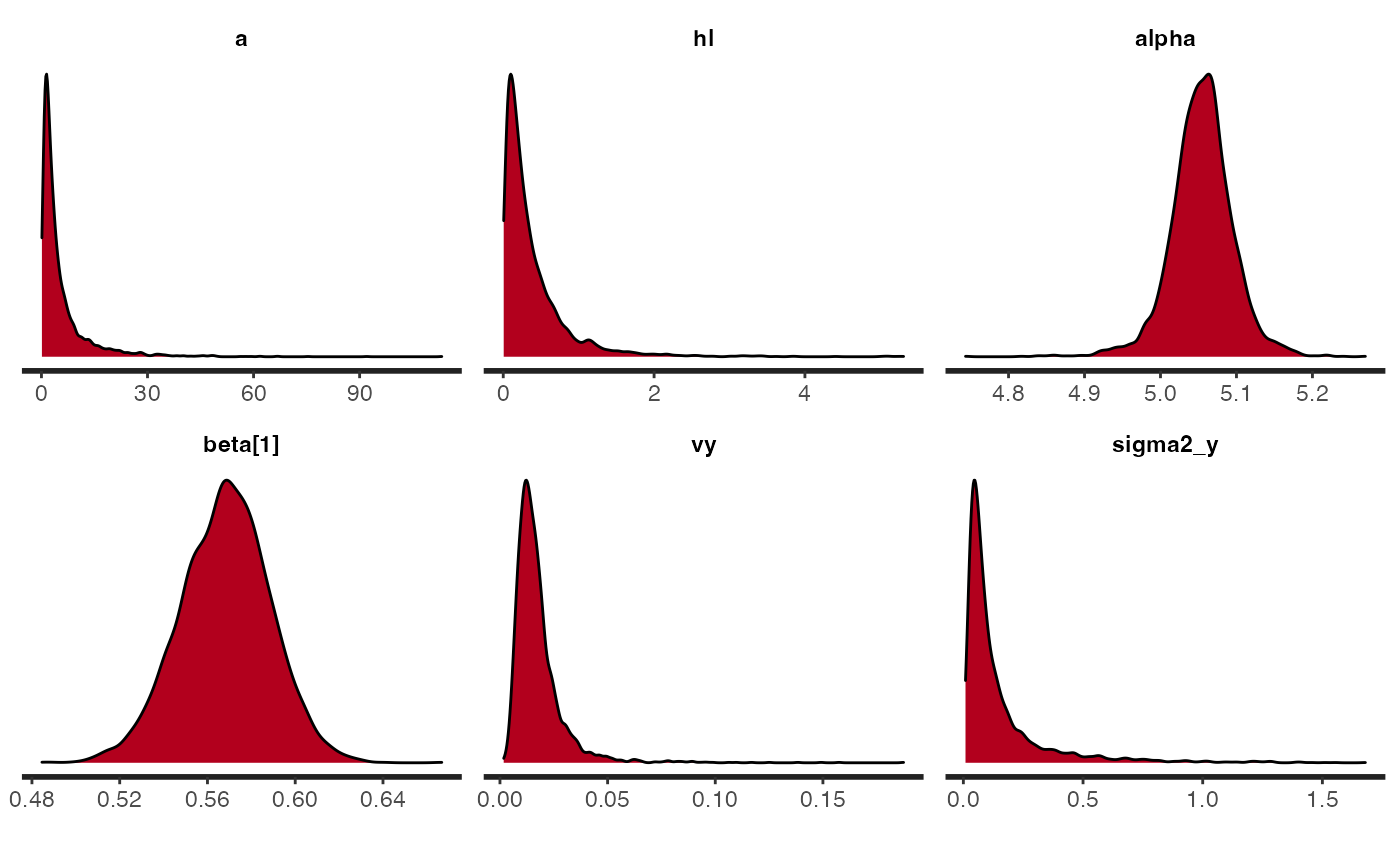
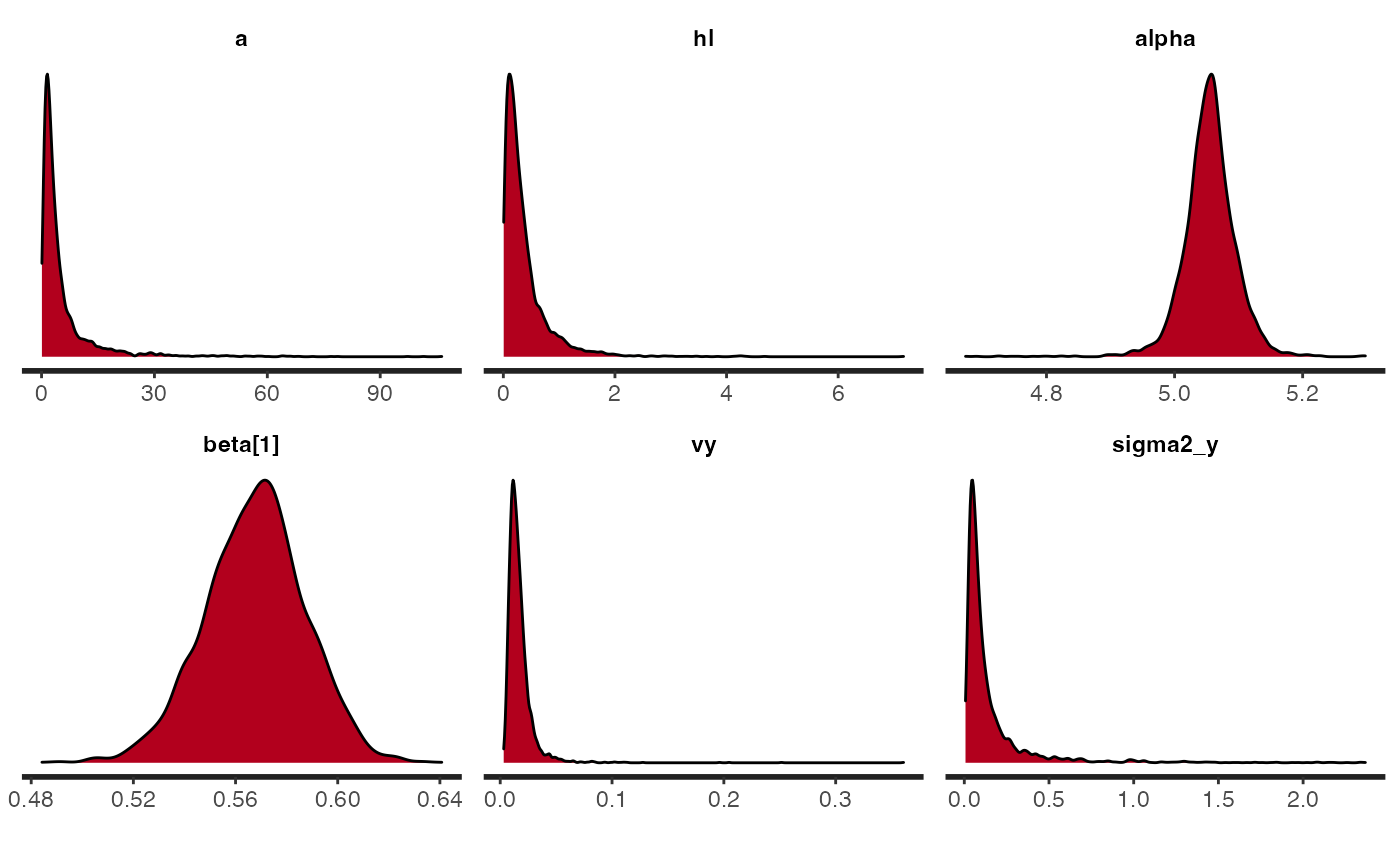
edit

diff --git a/docs/articles/OU-Models.html b/docs/articles/OU-Models.html
@@ -160,35 +160,7 @@
 <span class="va">ruminant.trdata</span><span class="op">&lt;-</span><span class="fu"><a href="https://rdrr.io/r/stats/filter.html" class="external-link">filter</a></span><span class="op">(</span><span class="va">ruminant.trdata</span>,<span class="op">!</span><span class="op">(</span><span class="fu"><a href="https://rdrr.io/r/base/NA.html" class="external-link">is.na</a></span><span class="op">(</span><span class="va">brain_mass_g_log_mean</span><span class="op">)</span><span class="op">)</span> <span class="op">&amp;</span> <span class="op">!</span><span class="op">(</span><span class="fu"><a href="https://rdrr.io/r/base/NA.html" class="external-link">is.na</a></span><span class="op">(</span><span class="va">body_mass_g_log_mean</span><span class="op">)</span><span class="op">)</span><span class="op">)</span>
 <span class="va">ruminant.trdata</span><span class="op">&lt;-</span><span class="fu"><a href="https://rdrr.io/r/stats/filter.html" class="external-link">filter</a></span><span class="op">(</span><span class="va">ruminant.trdata</span>,<span class="op">!</span><span class="op">(</span><span class="fu"><a href="https://rdrr.io/r/base/NA.html" class="external-link">is.na</a></span><span class="op">(</span><span class="va">brain_se_squared</span><span class="op">)</span><span class="op">)</span> <span class="op">&amp;</span> <span class="op">!</span><span class="op">(</span><span class="fu"><a href="https://rdrr.io/r/base/NA.html" class="external-link">is.na</a></span><span class="op">(</span><span class="va">body_se_squared</span><span class="op">)</span><span class="op">)</span><span class="op">)</span>
 
-<span class="va">ruminant.trdata</span> <span class="co">#Full dataset</span>
-<span class="co">#&gt; $phy </span>
-<span class="co">#&gt; </span>
-<span class="co">#&gt; Phylogenetic tree with 43 tips and 42 internal nodes.</span>
-<span class="co">#&gt; </span>
-<span class="co">#&gt; Tip labels:</span>
-<span class="co">#&gt;   Antilocapra_americana, Addax_nasomaculatus, Aepyceros_melampus, Alcelaphus_buselaphus_buselaphus, Antidorcas_marsupialis, Antilope_cervicapra, ...</span>
-<span class="co">#&gt; Node labels:</span>
-<span class="co">#&gt;   MF, MF, MF, MF, MF, MF, ...</span>
-<span class="co">#&gt; </span>
-<span class="co">#&gt; Rooted; includes branch lengths.</span>
-<span class="co">#&gt; </span>
-<span class="co">#&gt; $dat </span>
-<span class="co">#&gt; <span style="color: #949494;"># A tibble: 43 × 10</span></span>
-<span class="co">#&gt;    brain_mass_g_log_… brain_se_squared n_brain body_mass_g_log_… body_se_squared</span>
-<span class="co">#&gt;                 <span style="color: #949494; font-style: italic;">&lt;dbl&gt;</span>            <span style="color: #949494; font-style: italic;">&lt;dbl&gt;</span>   <span style="color: #949494; font-style: italic;">&lt;int&gt;</span>             <span style="color: #949494; font-style: italic;">&lt;dbl&gt;</span>           <span style="color: #949494; font-style: italic;">&lt;dbl&gt;</span></span>
-<span class="co">#&gt; <span style="color: #BCBCBC;"> 1</span>               4.80         0.010<span style="text-decoration: underline;">9</span>         1             11.0          0.042<span style="text-decoration: underline;">6</span> </span>
-<span class="co">#&gt; <span style="color: #BCBCBC;"> 2</span>               5.30         0.005<span style="text-decoration: underline;">47</span>        2             11.6          0.021<span style="text-decoration: underline;">3</span> </span>
-<span class="co">#&gt; <span style="color: #BCBCBC;"> 3</span>               5.15         0.000<span style="text-decoration: underline;">995</span>      11             10.9          0.003<span style="text-decoration: underline;">87</span></span>
-<span class="co">#&gt; <span style="color: #BCBCBC;"> 4</span>               5.69         0.002<span style="text-decoration: underline;">19</span>        5             11.9          0.008<span style="text-decoration: underline;">52</span></span>
-<span class="co">#&gt; <span style="color: #BCBCBC;"> 5</span>               4.91         0.000<span style="text-decoration: underline;">842</span>      13             10.5          0.003<span style="text-decoration: underline;">28</span></span>
-<span class="co">#&gt; <span style="color: #BCBCBC;"> 6</span>               4.77         0.010<span style="text-decoration: underline;">9</span>         1             10.4          0.042<span style="text-decoration: underline;">6</span> </span>
-<span class="co">#&gt; <span style="color: #BCBCBC;"> 7</span>               4.42         0.010<span style="text-decoration: underline;">9</span>         1              9.43         0.042<span style="text-decoration: underline;">6</span> </span>
-<span class="co">#&gt; <span style="color: #BCBCBC;"> 8</span>               4.42         0.003<span style="text-decoration: underline;">65</span>        3              9.58         0.021<span style="text-decoration: underline;">3</span> </span>
-<span class="co">#&gt; <span style="color: #BCBCBC;"> 9</span>               3.52         0.001<span style="text-decoration: underline;">37</span>        8              8.46         0.005<span style="text-decoration: underline;">33</span></span>
-<span class="co">#&gt; <span style="color: #BCBCBC;">10</span>               5.72         0.010<span style="text-decoration: underline;">9</span>         1             11.9          0.042<span style="text-decoration: underline;">6</span> </span>
-<span class="co">#&gt; <span style="color: #949494;"># … with 33 more rows, and 5 more variables: n_body &lt;int&gt;,</span></span>
-<span class="co">#&gt; <span style="color: #949494;">#   neocortex_area_mm2_log_mean &lt;dbl&gt;, neocortex_se_squared &lt;dbl&gt;,</span></span>
-<span class="co">#&gt; <span style="color: #949494;">#   n_neocortex &lt;int&gt;, diet &lt;fct&gt;</span></span>
+<span class="co">#ruminant.trdata #Full dataset</span>
 
 <span class="co">#Mean Scale</span>
 <span class="va">ruminant.trdata</span><span class="op">$</span><span class="va">dat</span><span class="op">$</span><span class="va">bodycentered</span><span class="op">&lt;-</span><span class="va">ruminant.trdata</span><span class="op">$</span><span class="va">dat</span><span class="op">$</span><span class="va">body_mass_g_log_mean</span><span class="op">-</span><span class="fu"><a href="https://rdrr.io/r/base/mean.html" class="external-link">mean</a></span><span class="op">(</span><span class="va">ruminant.trdata</span><span class="op">$</span><span class="va">dat</span><span class="op">$</span><span class="va">body_mass_g_log_mean</span><span class="op">)</span></code></pre></div>
@@ -281,13 +253,13 @@
 <div class="sourceCode" id="cb9"><pre class="downlit sourceCode r">
 <code class="sourceCode R"><span class="co">#abline(v=(c(log(2)/0.07142857,log(2)/1)), col="red", lwd=2, lty=2) #Lines for 1 Ma and length of tree (14 Ma) - </span>
 <span class="fu"><a href="https://rdrr.io/r/base/Extremes.html" class="external-link">min</a></span><span class="op">(</span><span class="va">samp</span><span class="op">)</span>
-<span class="co">#&gt; [1] 0.03700201</span>
+<span class="co">#&gt; [1] 0.02558487</span>
 <span class="fu"><a href="https://rdrr.io/r/base/Extremes.html" class="external-link">max</a></span><span class="op">(</span><span class="va">samp</span><span class="op">)</span>
-<span class="co">#&gt; [1] 358.436</span>
+<span class="co">#&gt; [1] 293.2979</span>
 <span class="fu"><a href="https://rdrr.io/r/base/Log.html" class="external-link">log</a></span><span class="op">(</span><span class="fl">2</span><span class="op">)</span><span class="op">/</span><span class="fu"><a href="https://rdrr.io/r/base/Extremes.html" class="external-link">min</a></span><span class="op">(</span><span class="va">samp</span><span class="op">)</span>
-<span class="co">#&gt; [1] 18.73269</span>
+<span class="co">#&gt; [1] 27.09208</span>
 <span class="fu"><a href="https://rdrr.io/r/base/Log.html" class="external-link">log</a></span><span class="op">(</span><span class="fl">2</span><span class="op">)</span><span class="op">/</span><span class="fu"><a href="https://rdrr.io/r/base/Extremes.html" class="external-link">max</a></span><span class="op">(</span><span class="va">samp</span><span class="op">)</span>
-<span class="co">#&gt; [1] 0.00193381</span>
+<span class="co">#&gt; [1] 0.002363288</span>
 
 <span class="va">quantiles</span> <span class="op">&lt;-</span> <span class="fu"><a href="https://rdrr.io/r/base/c.html" class="external-link">c</a></span><span class="op">(</span><span class="fl">0</span>, <span class="fl">0.01</span>, <span class="fl">0.025</span>,<span class="fl">0.10</span>, <span class="fl">0.25</span>, <span class="fl">0.5</span>, <span class="fl">0.75</span>,<span class="fl">0.90</span>,<span class="fl">0.95</span>, <span class="fl">0.975</span>, <span class="fl">0.99</span>, <span class="fl">1</span><span class="op">)</span>
 <span class="co">#hls &lt;- rlnorm(10000, meanlog=log(2)/par.alpha$meanlog, sdlog=log(2)/par.alpha$sdlog)</span>
@@ -295,7 +267,7 @@
 <span class="va">qs</span> <span class="op">&lt;-</span> <span class="fu"><a href="https://rdrr.io/r/stats/quantile.html" class="external-link">quantile</a></span><span class="op">(</span><span class="fu"><a href="https://rdrr.io/r/base/Log.html" class="external-link">log</a></span><span class="op">(</span><span class="fl">2</span><span class="op">)</span><span class="op">/</span><span class="va">samp</span>, <span class="va">quantiles</span><span class="op">)</span> <span class="co">## Use 'alfs' and math to calculate the quantiles of phylogenetic half-life</span>
 <span class="fu"><a href="https://rdrr.io/r/base/Round.html" class="external-link">round</a></span><span class="op">(</span><span class="va">qs</span>, <span class="fl">2</span><span class="op">)</span>
 <span class="co">#&gt;    0%    1%  2.5%   10%   25%   50%   75%   90%   95% 97.5%   99%  100% </span>
-<span class="co">#&gt;  0.00  0.01  0.02  0.04  0.09  0.20  0.45  1.01  1.58  2.37  3.60 18.73</span>
+<span class="co">#&gt;  0.00  0.01  0.02  0.04  0.09  0.20  0.47  0.99  1.55  2.45  3.93 27.09</span>
 
 <span class="fu"><a href="https://rdrr.io/r/graphics/hist.html" class="external-link">hist</a></span><span class="op">(</span><span class="op">(</span><span class="fu"><a href="https://rdrr.io/r/base/Log.html" class="external-link">log</a></span><span class="op">(</span><span class="fl">2</span><span class="op">)</span><span class="op">/</span><span class="va">samp</span><span class="op">)</span>, breaks<span class="op">=</span><span class="fl">10000</span>, main<span class="op">=</span><span class="st">"Prior density of half-life"</span>,xlim<span class="op">=</span><span class="fu"><a href="https://rdrr.io/r/base/c.html" class="external-link">c</a></span><span class="op">(</span><span class="fl">0</span>,<span class="fl">3</span><span class="op">)</span><span class="op">)</span>
 <span class="fu"><a href="https://rdrr.io/r/graphics/abline.html" class="external-link">abline</a></span><span class="op">(</span>v<span class="op">=</span><span class="op">(</span><span class="fu"><a href="https://rdrr.io/r/base/c.html" class="external-link">c</a></span><span class="op">(</span><span class="fl">0.04</span>,<span class="fl">1</span><span class="op">)</span><span class="op">)</span>, col<span class="op">=</span><span class="st">"red"</span>, lwd<span class="op">=</span><span class="fl">2</span>, lty<span class="op">=</span><span class="fl">2</span><span class="op">)</span> <span class="co">#Lines for 1 Ma and length of tree (27 Ma) - </span></code></pre></div>
@@ -325,13 +297,13 @@
 <div class="sourceCode" id="cb12"><pre class="downlit sourceCode r">
 <code class="sourceCode R"><span class="co">#abline(v=(c(log(2)/0.07142857,log(2)/1)), col="red", lwd=2, lty=2) #Lines for 1 Ma and length of tree (14 Ma) - </span>
 <span class="fu"><a href="https://rdrr.io/r/base/Extremes.html" class="external-link">min</a></span><span class="op">(</span><span class="va">samp</span><span class="op">)</span>
-<span class="co">#&gt; [1] 6.191435e-06</span>
+<span class="co">#&gt; [1] 7.036343e-06</span>
 <span class="fu"><a href="https://rdrr.io/r/base/Extremes.html" class="external-link">max</a></span><span class="op">(</span><span class="va">samp</span><span class="op">)</span>
-<span class="co">#&gt; [1] 350.6461</span>
+<span class="co">#&gt; [1] 500.6319</span>
 <span class="fu"><a href="https://rdrr.io/r/base/Log.html" class="external-link">log</a></span><span class="op">(</span><span class="fl">2</span><span class="op">)</span><span class="op">/</span><span class="fu"><a href="https://rdrr.io/r/base/Extremes.html" class="external-link">min</a></span><span class="op">(</span><span class="va">samp</span><span class="op">)</span>
-<span class="co">#&gt; [1] 111952.6</span>
+<span class="co">#&gt; [1] 98509.57</span>
 <span class="fu"><a href="https://rdrr.io/r/base/Log.html" class="external-link">log</a></span><span class="op">(</span><span class="fl">2</span><span class="op">)</span><span class="op">/</span><span class="fu"><a href="https://rdrr.io/r/base/Extremes.html" class="external-link">max</a></span><span class="op">(</span><span class="va">samp</span><span class="op">)</span>
-<span class="co">#&gt; [1] 0.001976771</span>
+<span class="co">#&gt; [1] 0.001384545</span>
 
 <span class="va">quantiles</span> <span class="op">&lt;-</span> <span class="fu"><a href="https://rdrr.io/r/base/c.html" class="external-link">c</a></span><span class="op">(</span><span class="fl">0</span>, <span class="fl">0.01</span>, <span class="fl">0.025</span>,<span class="fl">0.10</span>, <span class="fl">0.25</span>, <span class="fl">0.5</span>, <span class="fl">0.75</span>, <span class="fl">0.90</span>, <span class="fl">0.975</span>, <span class="fl">0.99</span>, <span class="fl">1</span><span class="op">)</span>
 <span class="co">#hls &lt;- rlnorm(10000, meanlog=log(2)/par.alpha$meanlog, sdlog=log(2)/par.alpha$sdlog)</span>
@@ -339,7 +311,7 @@
 <span class="va">qs</span> <span class="op">&lt;-</span> <span class="fu"><a href="https://rdrr.io/r/stats/quantile.html" class="external-link">quantile</a></span><span class="op">(</span><span class="va">samp</span>, <span class="va">quantiles</span><span class="op">)</span> <span class="co">## Use 'alfs' and math to calculate the quantiles of phylogenetic half-life</span>
 <span class="fu"><a href="https://rdrr.io/r/base/Round.html" class="external-link">round</a></span><span class="op">(</span><span class="va">qs</span>, <span class="fl">2</span><span class="op">)</span>
 <span class="co">#&gt;     0%     1%   2.5%    10%    25%    50%    75%    90%  97.5%    99%   100% </span>
-<span class="co">#&gt;   0.00   0.00   0.00   0.02   0.04   0.10   0.24   0.63   2.59   5.82 350.65</span>
+<span class="co">#&gt;   0.00   0.00   0.00   0.02   0.04   0.10   0.24   0.63   2.33   5.95 500.63</span>
 
 <span class="fu"><a href="https://rdrr.io/r/graphics/hist.html" class="external-link">hist</a></span><span class="op">(</span><span class="va">samp</span><span class="op">/</span><span class="op">(</span><span class="fl">2</span><span class="op">*</span><span class="fl">2</span><span class="op">)</span>, breaks<span class="op">=</span><span class="fl">10000</span>, main<span class="op">=</span><span class="st">"Prior density of Vy"</span>,xlim<span class="op">=</span><span class="fu"><a href="https://rdrr.io/r/base/c.html" class="external-link">c</a></span><span class="op">(</span><span class="fl">0</span>,<span class="fl">3</span><span class="op">)</span><span class="op">)</span></code></pre></div>
 <p><img src="OU-Models_files/figure-html/unnamed-chunk-6-2.png" width="700"></p>
@@ -364,15 +336,15 @@
 <span class="co">#&gt; post-warmup draws per chain=2000, total post-warmup draws=4000.</span>
 <span class="co">#&gt; </span>
 <span class="co">#&gt;           mean se_mean   sd 2.5%  25%  50%  75% 97.5% n_eff Rhat</span>
-<span class="co">#&gt; a         5.50    0.23 7.57 0.42 1.42 2.91 6.27 27.36  1050    1</span>
-<span class="co">#&gt; hl        0.39    0.01 0.47 0.03 0.11 0.24 0.49  1.64  1465    1</span>
-<span class="co">#&gt; alpha     5.05    0.00 0.04 4.97 5.03 5.06 5.08  5.14  1912    1</span>
-<span class="co">#&gt; beta[1]   0.57    0.00 0.02 0.53 0.55 0.57 0.58  0.61  2346    1</span>
-<span class="co">#&gt; vy        0.02    0.00 0.01 0.01 0.01 0.01 0.02  0.05  2105    1</span>
-<span class="co">#&gt; r_squared 0.96    0.00 0.00 0.95 0.96 0.96 0.96  0.97  1053    1</span>
-<span class="co">#&gt; sigma2_y  0.15    0.01 0.19 0.02 0.05 0.08 0.17  0.74  1028    1</span>
+<span class="co">#&gt; a         5.56    0.28 8.49 0.45 1.51 2.84 5.71 29.44   899 1.00</span>
+<span class="co">#&gt; hl        0.38    0.01 0.45 0.02 0.12 0.24 0.46  1.54  1183 1.00</span>
+<span class="co">#&gt; alpha     5.05    0.00 0.04 4.97 5.03 5.06 5.08  5.13  1427 1.00</span>
+<span class="co">#&gt; beta[1]   0.57    0.00 0.02 0.53 0.55 0.57 0.58  0.61  2535 1.00</span>
+<span class="co">#&gt; vy        0.02    0.00 0.01 0.01 0.01 0.01 0.02  0.04   988 1.00</span>
+<span class="co">#&gt; r_squared 0.96    0.00 0.00 0.95 0.96 0.96 0.96  0.97   740 1.01</span>
+<span class="co">#&gt; sigma2_y  0.15    0.01 0.23 0.02 0.05 0.08 0.15  0.85   783 1.00</span>
 <span class="co">#&gt; </span>
-<span class="co">#&gt; Samples were drawn using NUTS(diag_e) at Thu Dec  9 07:13:24 2021.</span>
+<span class="co">#&gt; Samples were drawn using NUTS(diag_e) at Thu Dec  9 08:44:10 2021.</span>
 <span class="co">#&gt; For each parameter, n_eff is a crude measure of effective sample size,</span>
 <span class="co">#&gt; and Rhat is the potential scale reduction factor on split chains (at </span>
 <span class="co">#&gt; convergence, Rhat=1).</span>
@@ -412,17 +384,17 @@
 <span class="co">#&gt; post-warmup draws per chain=2000, total post-warmup draws=4000.</span>
 <span class="co">#&gt; </span>
 <span class="co">#&gt;               mean se_mean    sd  2.5%   25%   50%   75% 97.5% n_eff Rhat</span>
-<span class="co">#&gt; a            41.48    0.47 22.04 14.78 26.71 36.02 50.35 99.54  2181    1</span>
-<span class="co">#&gt; hl            0.02    0.00  0.01  0.01  0.01  0.02  0.03  0.05  2136    1</span>
-<span class="co">#&gt; alpha         5.06    0.00  0.03  4.99  5.04  5.06  5.08  5.12  2575    1</span>
-<span class="co">#&gt; beta[1]       0.59    0.00  0.02  0.55  0.57  0.59  0.60  0.63  2922    1</span>
-<span class="co">#&gt; beta_evol[1]  5.06    0.00  0.00  5.05  5.06  5.06  5.06  5.06  4330    1</span>
-<span class="co">#&gt; beta_evol[2]  0.57    0.00  0.00  0.57  0.57  0.57  0.57  0.57  2810    1</span>
-<span class="co">#&gt; vy            0.01    0.00  0.00  0.00  0.00  0.00  0.01  0.02  3333    1</span>
-<span class="co">#&gt; r_squared     0.96    0.00  0.00  0.95  0.96  0.96  0.96  0.97  1855    1</span>
-<span class="co">#&gt; sigma2_y      0.45    0.01  0.46  0.01  0.12  0.29  0.62  1.78  2073    1</span>
+<span class="co">#&gt; a            42.54    0.49 22.15 15.28 27.02 37.40 51.74 99.68  2081    1</span>
+<span class="co">#&gt; hl            0.02    0.00  0.01  0.01  0.01  0.02  0.03  0.05  2368    1</span>
+<span class="co">#&gt; alpha         5.06    0.00  0.03  4.99  5.04  5.06  5.08  5.12  2627    1</span>
+<span class="co">#&gt; beta[1]       0.59    0.00  0.02  0.55  0.57  0.59  0.60  0.63  3237    1</span>
+<span class="co">#&gt; beta_evol[1]  5.06    0.00  0.00  5.05  5.06  5.06  5.06  5.06  3958    1</span>
+<span class="co">#&gt; beta_evol[2]  0.57    0.00  0.00  0.57  0.57  0.57  0.57  0.57  2795    1</span>
+<span class="co">#&gt; vy            0.01    0.00  0.00  0.00  0.00  0.00  0.01  0.02  3318    1</span>
+<span class="co">#&gt; r_squared     0.96    0.00  0.00  0.95  0.96  0.96  0.96  0.97  1583    1</span>
+<span class="co">#&gt; sigma2_y      0.47    0.01  0.49  0.01  0.12  0.30  0.67  1.86  2094    1</span>
 <span class="co">#&gt; </span>
-<span class="co">#&gt; Samples were drawn using NUTS(diag_e) at Thu Dec  9 07:18:23 2021.</span>
+<span class="co">#&gt; Samples were drawn using NUTS(diag_e) at Thu Dec  9 08:48:58 2021.</span>
 <span class="co">#&gt; For each parameter, n_eff is a crude measure of effective sample size,</span>
 <span class="co">#&gt; and Rhat is the potential scale reduction factor on split chains (at </span>
 <span class="co">#&gt; convergence, Rhat=1).</span>
@@ -451,7 +423,7 @@
 <span class="va">lml.fit.adaptive</span><span class="op">&lt;-</span><span class="fu"><a href="https://rdrr.io/pkg/bridgesampling/man/bridge_sampler.html" class="external-link">bridge_sampler</a></span><span class="op">(</span><span class="va">fit.adaptive</span>,silent<span class="op">=</span><span class="cn">TRUE</span><span class="op">)</span>
 <span class="va">BF_att</span> <span class="op">&lt;-</span> <span class="fu">bridgesampling</span><span class="fu">::</span><span class="fu"><a href="https://rdrr.io/pkg/bridgesampling/man/bf.html" class="external-link">bf</a></span><span class="op">(</span><span class="va">lml.fit.direct</span>, <span class="va">lml.fit.adaptive</span><span class="op">)</span>
 <span class="va">BF_att</span>
-<span class="co">#&gt; Estimated Bayes factor in favor of lml.fit.direct over lml.fit.adaptive: 33.96094</span></code></pre></div>
+<span class="co">#&gt; Estimated Bayes factor in favor of lml.fit.direct over lml.fit.adaptive: 33.98126</span></code></pre></div>
 <p>We find that the data is 5.2 more likely under a model that assumes a direct effect model rather than af adaptive model.</p>
 </div>
 <div class="section level2">
@@ -467,12 +439,12 @@
 <span class="co">#&gt; post-warmup draws per chain=2000, total post-warmup draws=4000.</span>
 <span class="co">#&gt; </span>
 <span class="co">#&gt;           mean se_mean   sd 2.5%  25%  50%  75% 97.5% n_eff Rhat</span>
-<span class="co">#&gt; alpha     5.05       0 0.08 4.88 5.00 5.05 5.11  5.22  3079    1</span>
-<span class="co">#&gt; beta[1]   0.56       0 0.02 0.51 0.54 0.56 0.57  0.60  3531    1</span>
-<span class="co">#&gt; r_squared 0.99       0 0.01 0.98 0.99 0.99 0.99  0.99  2666    1</span>
-<span class="co">#&gt; sigma2_y  0.03       0 0.01 0.01 0.02 0.02 0.03  0.05  2971    1</span>
+<span class="co">#&gt; alpha     5.05       0 0.08 4.87 5.00 5.05 5.11  5.21  3035    1</span>
+<span class="co">#&gt; beta[1]   0.56       0 0.02 0.51 0.54 0.56 0.57  0.60  3365    1</span>
+<span class="co">#&gt; r_squared 0.99       0 0.01 0.98 0.99 0.99 0.99  0.99  2315    1</span>
+<span class="co">#&gt; sigma2_y  0.03       0 0.01 0.01 0.02 0.02 0.03  0.05  2752    1</span>
 <span class="co">#&gt; </span>
-<span class="co">#&gt; Samples were drawn using NUTS(diag_e) at Thu Dec  9 07:21:08 2021.</span>
+<span class="co">#&gt; Samples were drawn using NUTS(diag_e) at Thu Dec  9 08:51:54 2021.</span>
 <span class="co">#&gt; For each parameter, n_eff is a crude measure of effective sample size,</span>
 <span class="co">#&gt; and Rhat is the potential scale reduction factor on split chains (at </span>
 <span class="co">#&gt; convergence, Rhat=1).</span>
@@ -502,7 +474,7 @@
 
 <span class="va">BF_att</span> <span class="op">&lt;-</span> <span class="fu">bridgesampling</span><span class="fu">::</span><span class="fu"><a href="https://rdrr.io/pkg/bridgesampling/man/bf.html" class="external-link">bf</a></span><span class="op">(</span><span class="va">lml.fit.direct</span>, <span class="va">lml.fit.BM</span><span class="op">)</span>
 <span class="va">BF_att</span>
-<span class="co">#&gt; Estimated Bayes factor in favor of lml.fit.direct over lml.fit.BM: 1.30749</span></code></pre></div>
+<span class="co">#&gt; Estimated Bayes factor in favor of lml.fit.direct over lml.fit.BM: 1.30015</span></code></pre></div>
 <p>Here the direct fit model has a Bayes Factor of 0.7 over the BM model, which makes sense for this data as the estimated phylogenetic half life is quite long, 65% the length of the phylogeny.</p>
 </div>
 <div class="section level2">

diff --git a/docs/articles/OU-Models-Prediction.html b/docs/articles/OU-Models-Prediction.html
@@ -170,35 +170,7 @@
 <span class="va">ruminant.trdata</span><span class="op">&lt;-</span><span class="fu"><a href="https://rdrr.io/r/stats/filter.html" class="external-link">filter</a></span><span class="op">(</span><span class="va">ruminant.trdata</span>,<span class="op">!</span><span class="op">(</span><span class="fu"><a href="https://rdrr.io/r/base/NA.html" class="external-link">is.na</a></span><span class="op">(</span><span class="va">brain_mass_g_log_mean</span><span class="op">)</span><span class="op">)</span> <span class="op">&amp;</span> <span class="op">!</span><span class="op">(</span><span class="fu"><a href="https://rdrr.io/r/base/NA.html" class="external-link">is.na</a></span><span class="op">(</span><span class="va">body_mass_g_log_mean</span><span class="op">)</span><span class="op">)</span><span class="op">)</span>
 <span class="va">ruminant.trdata</span><span class="op">&lt;-</span><span class="fu"><a href="https://rdrr.io/r/stats/filter.html" class="external-link">filter</a></span><span class="op">(</span><span class="va">ruminant.trdata</span>,<span class="op">!</span><span class="op">(</span><span class="fu"><a href="https://rdrr.io/r/base/NA.html" class="external-link">is.na</a></span><span class="op">(</span><span class="va">brain_se_squared</span><span class="op">)</span><span class="op">)</span> <span class="op">&amp;</span> <span class="op">!</span><span class="op">(</span><span class="fu"><a href="https://rdrr.io/r/base/NA.html" class="external-link">is.na</a></span><span class="op">(</span><span class="va">body_se_squared</span><span class="op">)</span><span class="op">)</span><span class="op">)</span>
 
-<span class="va">ruminant.trdata</span> <span class="co">#Full dataset</span>
-<span class="co">#&gt; $phy </span>
-<span class="co">#&gt; </span>
-<span class="co">#&gt; Phylogenetic tree with 43 tips and 42 internal nodes.</span>
-<span class="co">#&gt; </span>
-<span class="co">#&gt; Tip labels:</span>
-<span class="co">#&gt;   Antilocapra_americana, Addax_nasomaculatus, Aepyceros_melampus, Alcelaphus_buselaphus_buselaphus, Antidorcas_marsupialis, Antilope_cervicapra, ...</span>
-<span class="co">#&gt; Node labels:</span>
-<span class="co">#&gt;   MF, MF, MF, MF, MF, MF, ...</span>
-<span class="co">#&gt; </span>
-<span class="co">#&gt; Rooted; includes branch lengths.</span>
-<span class="co">#&gt; </span>
-<span class="co">#&gt; $dat </span>
-<span class="co">#&gt; <span style="color: #949494;"># A tibble: 43 × 10</span></span>
-<span class="co">#&gt;    brain_mass_g_log_… brain_se_squared n_brain body_mass_g_log_… body_se_squared</span>
-<span class="co">#&gt;                 <span style="color: #949494; font-style: italic;">&lt;dbl&gt;</span>            <span style="color: #949494; font-style: italic;">&lt;dbl&gt;</span>   <span style="color: #949494; font-style: italic;">&lt;int&gt;</span>             <span style="color: #949494; font-style: italic;">&lt;dbl&gt;</span>           <span style="color: #949494; font-style: italic;">&lt;dbl&gt;</span></span>
-<span class="co">#&gt; <span style="color: #BCBCBC;"> 1</span>               4.80         0.010<span style="text-decoration: underline;">9</span>         1             11.0          0.042<span style="text-decoration: underline;">6</span> </span>
-<span class="co">#&gt; <span style="color: #BCBCBC;"> 2</span>               5.30         0.005<span style="text-decoration: underline;">47</span>        2             11.6          0.021<span style="text-decoration: underline;">3</span> </span>
-<span class="co">#&gt; <span style="color: #BCBCBC;"> 3</span>               5.15         0.000<span style="text-decoration: underline;">995</span>      11             10.9          0.003<span style="text-decoration: underline;">87</span></span>
-<span class="co">#&gt; <span style="color: #BCBCBC;"> 4</span>               5.69         0.002<span style="text-decoration: underline;">19</span>        5             11.9          0.008<span style="text-decoration: underline;">52</span></span>
-<span class="co">#&gt; <span style="color: #BCBCBC;"> 5</span>               4.91         0.000<span style="text-decoration: underline;">842</span>      13             10.5          0.003<span style="text-decoration: underline;">28</span></span>
-<span class="co">#&gt; <span style="color: #BCBCBC;"> 6</span>               4.77         0.010<span style="text-decoration: underline;">9</span>         1             10.4          0.042<span style="text-decoration: underline;">6</span> </span>
-<span class="co">#&gt; <span style="color: #BCBCBC;"> 7</span>               4.42         0.010<span style="text-decoration: underline;">9</span>         1              9.43         0.042<span style="text-decoration: underline;">6</span> </span>
-<span class="co">#&gt; <span style="color: #BCBCBC;"> 8</span>               4.42         0.003<span style="text-decoration: underline;">65</span>        3              9.58         0.021<span style="text-decoration: underline;">3</span> </span>
-<span class="co">#&gt; <span style="color: #BCBCBC;"> 9</span>               3.52         0.001<span style="text-decoration: underline;">37</span>        8              8.46         0.005<span style="text-decoration: underline;">33</span></span>
-<span class="co">#&gt; <span style="color: #BCBCBC;">10</span>               5.72         0.010<span style="text-decoration: underline;">9</span>         1             11.9          0.042<span style="text-decoration: underline;">6</span> </span>
-<span class="co">#&gt; <span style="color: #949494;"># … with 33 more rows, and 5 more variables: n_body &lt;int&gt;,</span></span>
-<span class="co">#&gt; <span style="color: #949494;">#   neocortex_area_mm2_log_mean &lt;dbl&gt;, neocortex_se_squared &lt;dbl&gt;,</span></span>
-<span class="co">#&gt; <span style="color: #949494;">#   n_neocortex &lt;int&gt;, diet &lt;fct&gt;</span></span></code></pre></div>
+<span class="co">#ruminant.trdata #Full dataset</span></code></pre></div>
 </div>
 <div class="section level2">
 <h2 id="classical-regression">Classical Regression<a class="anchor" aria-label="anchor" href="#classical-regression"></a>
@@ -273,17 +245,17 @@
 <span class="co">#&gt; post-warmup draws per chain=2000, total post-warmup draws=4000.</span>
 <span class="co">#&gt; </span>
 <span class="co">#&gt;                      mean se_mean   sd  2.5%   25%   50%   75% 97.5% n_eff Rhat</span>
-<span class="co">#&gt; a                    6.06    0.29 9.35  0.43  1.44  2.87  6.64 33.50  1071    1</span>
-<span class="co">#&gt; hl                   0.39    0.01 0.49  0.02  0.10  0.24  0.48  1.62  1592    1</span>
-<span class="co">#&gt; alpha                5.07    0.00 0.04  5.00  5.04  5.06  5.09  5.15  1941    1</span>
-<span class="co">#&gt; beta[1]              0.57    0.00 0.02  0.53  0.56  0.57  0.58  0.61  2455    1</span>
-<span class="co">#&gt; r_squared            0.96    0.00 0.00  0.95  0.96  0.96  0.97  0.97  1087    1</span>
-<span class="co">#&gt; sigma2_y             0.16    0.01 0.24  0.02  0.04  0.08  0.17  0.90   955    1</span>
-<span class="co">#&gt; RMSE                 0.29    0.00 0.03  0.25  0.28  0.29  0.31  0.35  3309    1</span>
-<span class="co">#&gt; RMSE_mu              0.27    0.00 0.02  0.26  0.26  0.26  0.27  0.31   870    1</span>
-<span class="co">#&gt; X_pred_fos_means[1] -0.48    0.00 0.17 -0.82 -0.59 -0.48 -0.36 -0.14  3324    1</span>
+<span class="co">#&gt; a                    5.73    0.32 9.03  0.40  1.35  2.77  5.96 31.02   783    1</span>
+<span class="co">#&gt; hl                   0.41    0.01 0.50  0.02  0.12  0.25  0.51  1.74  1581    1</span>
+<span class="co">#&gt; alpha                5.07    0.00 0.04  5.00  5.04  5.06  5.09  5.15  1610    1</span>
+<span class="co">#&gt; beta[1]              0.57    0.00 0.02  0.53  0.56  0.57  0.58  0.61  2191    1</span>
+<span class="co">#&gt; r_squared            0.96    0.00 0.00  0.95  0.96  0.96  0.97  0.97  1249    1</span>
+<span class="co">#&gt; sigma2_y             0.15    0.01 0.24  0.02  0.04  0.07  0.15  0.80   740    1</span>
+<span class="co">#&gt; RMSE                 0.29    0.00 0.03  0.25  0.28  0.29  0.31  0.35  3318    1</span>
+<span class="co">#&gt; RMSE_mu              0.27    0.00 0.02  0.26  0.26  0.26  0.27  0.32  1031    1</span>
+<span class="co">#&gt; X_pred_fos_means[1] -0.47    0.00 0.17 -0.82 -0.59 -0.47 -0.36 -0.13  3445    1</span>
 <span class="co">#&gt; </span>
-<span class="co">#&gt; Samples were drawn using NUTS(diag_e) at Thu Dec  9 07:02:42 2021.</span>
+<span class="co">#&gt; Samples were drawn using NUTS(diag_e) at Thu Dec  9 08:32:30 2021.</span>
 <span class="co">#&gt; For each parameter, n_eff is a crude measure of effective sample size,</span>
 <span class="co">#&gt; and Rhat is the potential scale reduction factor on split chains (at </span>
 <span class="co">#&gt; convergence, Rhat=1).</span>
@@ -469,17 +441,17 @@
 <span class="co">#&gt; post-warmup draws per chain=2000, total post-warmup draws=4000.</span>
 <span class="co">#&gt; </span>
 <span class="co">#&gt;                     mean se_mean   sd 2.5%  25%  50%  75% 97.5% n_eff Rhat</span>
-<span class="co">#&gt; a                   6.04    0.26 9.27 0.42 1.47 2.95 6.62 32.45  1238    1</span>
-<span class="co">#&gt; hl                  0.39    0.01 0.57 0.02 0.10 0.24 0.47  1.66  1668    1</span>
-<span class="co">#&gt; alpha               5.07    0.00 0.04 5.00 5.04 5.06 5.09  5.15  2171    1</span>
-<span class="co">#&gt; beta[1]             0.57    0.00 0.02 0.53 0.56 0.57 0.58  0.60  2445    1</span>
-<span class="co">#&gt; r_squared           0.96    0.00 0.00 0.95 0.96 0.96 0.97  0.97  1179    1</span>
-<span class="co">#&gt; sigma2_y            0.16    0.01 0.23 0.02 0.04 0.08 0.17  0.82  1224    1</span>
-<span class="co">#&gt; RMSE                0.21    0.00 0.02 0.17 0.20 0.21 0.23  0.27  3770    1</span>
-<span class="co">#&gt; RMSE_mu             0.15    0.00 0.01 0.15 0.15 0.15 0.16  0.18  1290    1</span>
-<span class="co">#&gt; Y_pred_fos_means[1] 5.09    0.00 0.13 4.84 5.01 5.09 5.17  5.35  3615    1</span>
+<span class="co">#&gt; a                   5.48    0.28 8.56 0.39 1.34 2.74 5.90 27.43   952 1.00</span>
+<span class="co">#&gt; hl                  0.42    0.01 0.53 0.03 0.12 0.25 0.52  1.79  1820 1.00</span>
+<span class="co">#&gt; alpha               5.07    0.00 0.04 4.99 5.04 5.06 5.09  5.16  1226 1.00</span>
+<span class="co">#&gt; beta[1]             0.57    0.00 0.02 0.53 0.56 0.57 0.58  0.61  2656 1.00</span>
+<span class="co">#&gt; r_squared           0.96    0.00 0.00 0.95 0.96 0.96 0.97  0.97   988 1.00</span>
+<span class="co">#&gt; sigma2_y            0.15    0.01 0.23 0.02 0.04 0.07 0.15  0.77   893 1.00</span>
+<span class="co">#&gt; RMSE                0.21    0.00 0.03 0.17 0.20 0.21 0.23  0.27  3306 1.00</span>
+<span class="co">#&gt; RMSE_mu             0.16    0.00 0.01 0.15 0.15 0.15 0.16  0.19   792 1.01</span>
+<span class="co">#&gt; Y_pred_fos_means[1] 5.10    0.00 0.13 4.85 5.02 5.10 5.18  5.35  3512 1.00</span>
 <span class="co">#&gt; </span>
-<span class="co">#&gt; Samples were drawn using NUTS(diag_e) at Thu Dec  9 07:07:59 2021.</span>
+<span class="co">#&gt; Samples were drawn using NUTS(diag_e) at Thu Dec  9 08:38:06 2021.</span>
 <span class="co">#&gt; For each parameter, n_eff is a crude measure of effective sample size,</span>
 <span class="co">#&gt; and Rhat is the potential scale reduction factor on split chains (at </span>
 <span class="co">#&gt; convergence, Rhat=1).</span>
